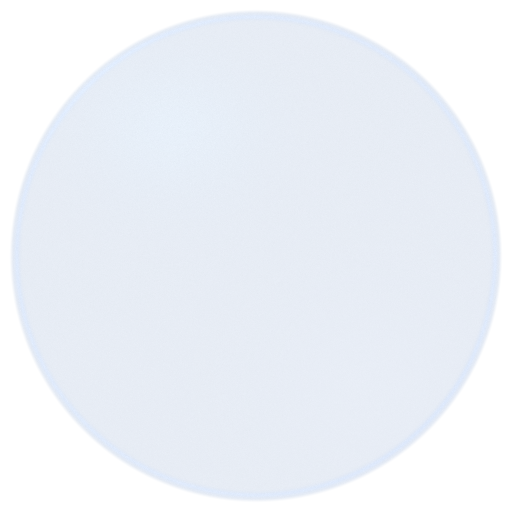
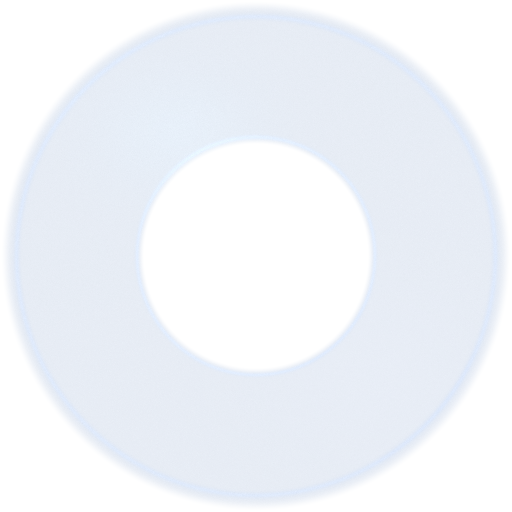
Make app wheel a frosted ring with an open center

Changed region(s): [[0.2812, 0.2812, 0.7188, 0.7188]]

diff --git a/rust/tv-launcher/src/ui/apps.rs b/rust/tv-launcher/src/ui/apps.rs
@@ -297,13 +297,13 @@ fn draw_wheel(
         Align::Left,
     );
     let (cx, cy, orbit) = (640.0f32, 372.0f32, 150.0f32);
-    // A textured transparent asset gives the lens a soft edge and a cloudy
-    // milk-glass reflection instead of stacking flat vector circles.
+    // A textured milk-glass ring leaves its center genuinely transparent.
     if let Some(glass) = glass {
         c.image_fit(glass, cx - 239.0, cy - 239.0, 478.0, 478.0, 0.0, false, 1.0);
     } else {
         c.circle(cx, cy, 239.0, Rgba(230, 239, 255, 18));
         c.circle(cx, cy, 232.0, Rgba(204, 218, 242, 82));
+        c.circle(cx, cy, 108.0, Rgba::hex(0x121722));
     }
     for i in 0..APPS.len() {
         let angle = -std::f32::consts::FRAC_PI_2
